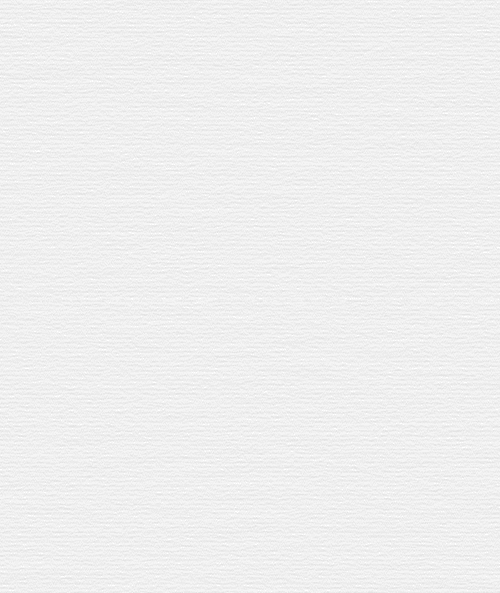
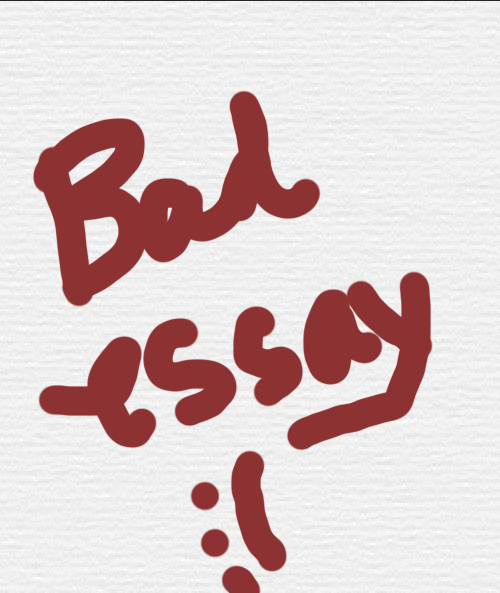
P1: Now you can drop the red paint and there will be words in red

Changed region(s): [[0.06, 0.4553, 0.87, 0.7589], [0.06, 0.1518, 0.66, 0.516], [0.36, 0.7589, 0.57, 1.0]]

diff --git a/projects/project_1/css/style.css b/projects/project_1/css/style.css
@@ -1,66 +1,75 @@
 /*setting the body*/
 body {
-  background:white, repeat;
-  outline:none;
-  border:none;
-  margin:0px;
-  padding:0px;
-  font-family:Courier, monospace;
+  background: white, repeat;
+  outline: none;
+  border: none;
+  margin: 0px;
+  padding: 0px;
+  font-family: Courier, monospace;
 }
+
 /*styling the title*/
 h1 {
-  margin-left:auto;
-  margin-right:auto;
+  margin-left: auto;
+  margin-right: auto;
   margin-top: 80px;
 }
+
 /*setting the wrapper that will wrap the text area*/
 #wrapper {
-	width:700px;
-	height:auto;
-	margin-left:auto;
-	margin-right:auto;
-	margin-top:24px;
-	margin-bottom:100px;
+  width: 700px;
+  height: auto;
+  margin-left: auto;
+  margin-right: auto;
+  margin-top: 24px;
+  margin-bottom: 100px;
 }
 
 /*styling of the paper and in what font size the user will write*/
 #paper {
-	color:#FFF;
-	font-size:20px;
+  color: #FFF;
+  font-size: 20px;
 }
 
 /*setting the margins*/
 #margin {
-	margin-left:12px;
-	margin-bottom:20px;
-	-webkit-user-select: none;
-	-moz-user-select: none;
-	-ms-user-select: none;
-	-o-user-select: none;
-	user-select: none;
+  margin-left: 12px;
+  margin-bottom: 20px;
+  -webkit-user-select: none;
+  -moz-user-select: none;
+  -ms-user-select: none;
+  -o-user-select: none;
+  user-select: none;
 }
 
 /*text font for placeholder*/
 #text {
-	width:500px;
-	overflow:hidden;
-	background-color:#FFF;
-	color:#222;
-	font-family:Courier, monospace;
-	font-weight:normal;
-	font-size:24px;
-	resize:none;
-	line-height:40px;
-  padding-top:45px;
-	padding-bottom:34px;
-	padding-left:100px;
-	padding-right:100px;
+  width: 500px;
+  overflow: hidden;
+  background-color: #FFF;
+  color: #222;
+  font-family: Courier, monospace;
+  font-weight: normal;
+  font-size: 24px;
+  resize: none;
+  line-height: 40px;
+  padding-top: 45px;
+  padding-bottom: 34px;
+  padding-left: 100px;
+  padding-right: 100px;
   /*this will show the paper texture where the user will type his essay*/
-  background: url(../assets/images/lines.png), url(../assets/images/paper.png);
-	background-repeat:repeat-y,repeat;
-	-webkit-border-radius:0px;
-	border-radius:0px;
+  background-repeat: repeat-y, repeat;
+  -webkit-border-radius: 0px;
+  border-radius: 0px;
   border-color: white;
-	border-top:1px solid #FFF;
-	border-bottom:1px solid #FFF;
+  border-top: 1px solid #FFF;
+  border-bottom: 1px solid #FFF;
+}
+/*clean paper-no paint*/
+.cleanPaper {
+  background: url(../assets/images/lines.png), url(../assets/images/paper.png);
+}
+/*set the red paper*/
+.redPaper {
+  background: url(../assets/images/lines.png), url(../assets/images/paperRed.png);
 }

diff --git a/projects/project_1/js/script.js b/projects/project_1/js/script.js
@@ -12,6 +12,10 @@ to match your project! Write JavaScript to do amazing things below!
 
 /*Declare our array of questions*/
 let essayQuestionsArray = ['An Analysis of the True Hero of A Lesson Before Dying, a Novel by Ernest J. Gaine', 'Contrast between two novels', 'What is technology these days', 'A Summary of the Book, Death of a Salesman by Arthur Miller'];
+/*declare my red paint variable*/
+let $dropRedPaint;
+/*declare the paper*/
+let $paper;
 
 /*what will show when the page is loaded*/
 $(document).ready(setup);
@@ -39,6 +43,36 @@ function setup() {
       }, 1000)
     }
   });
+
+  //lets do the paint!
+  // Get the paper element from the page
+  $paper = $('#text');
+  // Make it droppable
+  $paper.droppable({
+    // The drop option specifies a function to call when a drop is completed
+    drop: onDrop
+  });
+  $("#dropRedPaint").draggable({
+    start: function() {},
+    stop: function() {}
+  });
+}
+
+// onDrop(event,ui)
+//
+// Called when a draggable element is dragged over the droppable element (the animal)
+// In this instance it can only be the red Paint (it's the only draggable element).
+// The arguments 'event' and 'ui' are automatically passed by jQuery UI and contain
+// helpful information about the event.
+function onDrop(event, ui) {
+  console.log("You drop it");
+  // ui contains a reference to the draggable element that was just dropped in ui.draggable
+  // .remove() removes the select element from the page
+  ui.draggable.remove(); //.remove() would work here too
+  // Get the redPaint element from the page
+  //once you drop it, the clean paper will be gone and the red paper will appear
+  $("#text").removeClass("cleanPaper");
+  $("#text").addClass("redPaper");
 }
 
 //showNewEssayQuestion()-->Meant for triggering a question once the button has been clicked.

diff --git a/projects/project_1/index.html b/projects/project_1/index.html
@@ -33,13 +33,16 @@
   <button onclick="showNewEssayQuestion()">Give me a Topic Teacher!</button>
   <!---Text Area where the user will type its essay--->
     <!---Paper form where there will be text and a placeholder that indicates the writer what he should do.--->
-    <form id="paper" method="get" action="">
-    		<textarea placeholder="Be a good student and write ;)" id="text" name="text" rows="4"></textarea>
+    <form id="paper">
+    		<textarea placeholder="Be a good student and write ;)" id="text" class="cleanPaper" name="text" rows="4"></textarea>
     		<br>
     	</form>
     <div class="paintBuckets">
       <p>or be a rebel! If you know what I mean...(DROP THAT PAINT! :D)</p>
-      <img id="redPaint"src="assets/images/redPaint.png" alt="this is a red paint image">
+      <!--setting the red paint dot--->
+      <img id="dropRedPaint"src="assets/images/redPaint.png" alt="this is a red paint image">
+      <img id="liquidPaper"src="assets/images/liquidPaper.png" alt="this is a liquidPaper">
+
 
     </div>
   </div>
